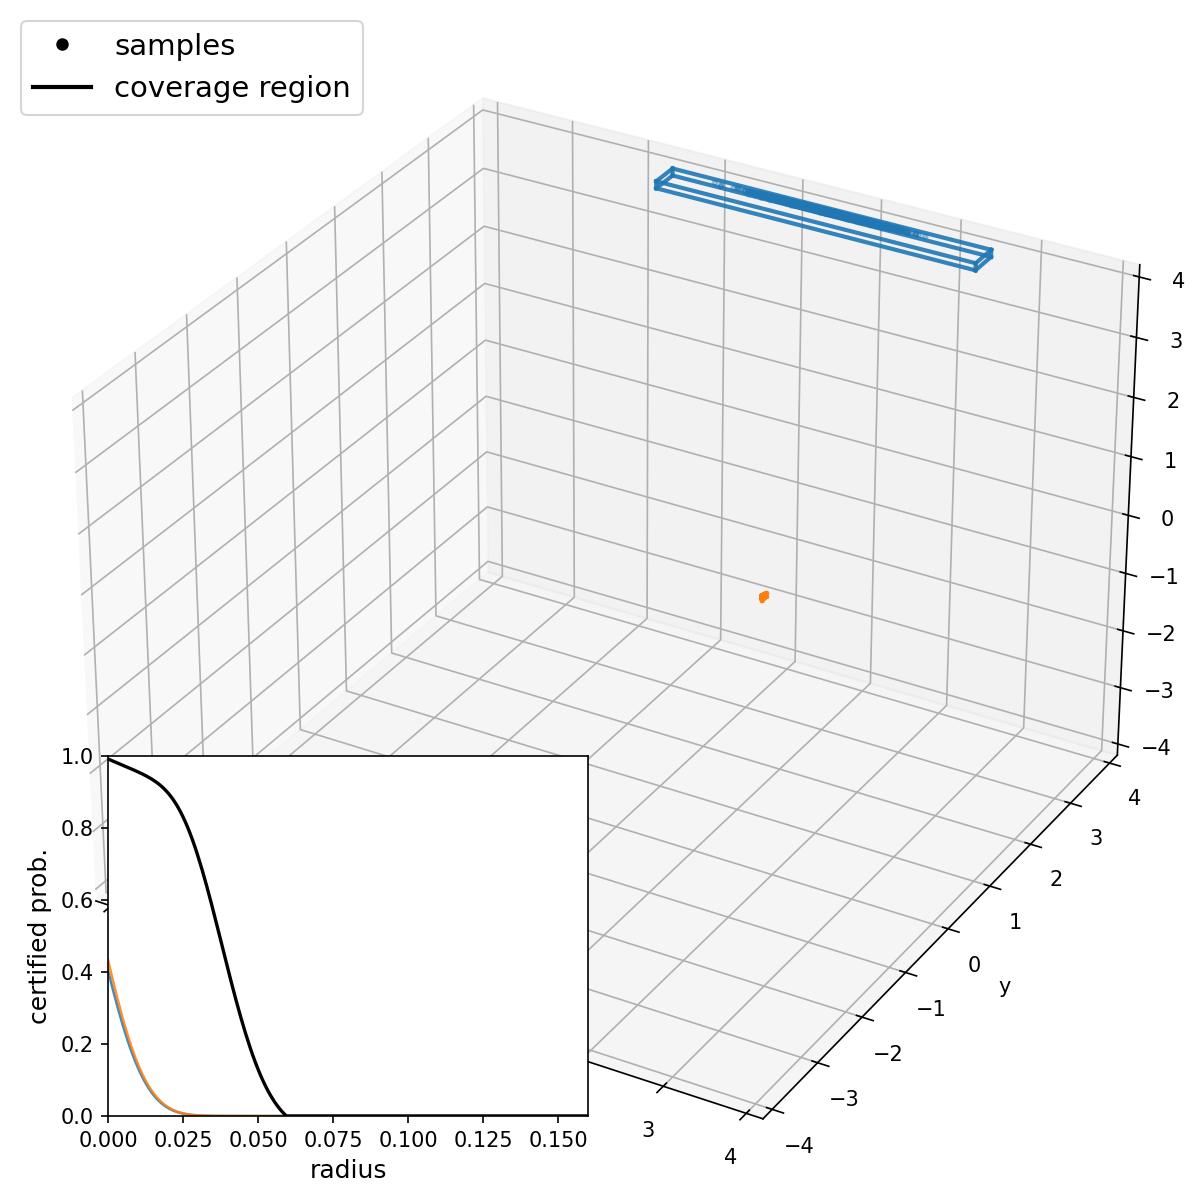
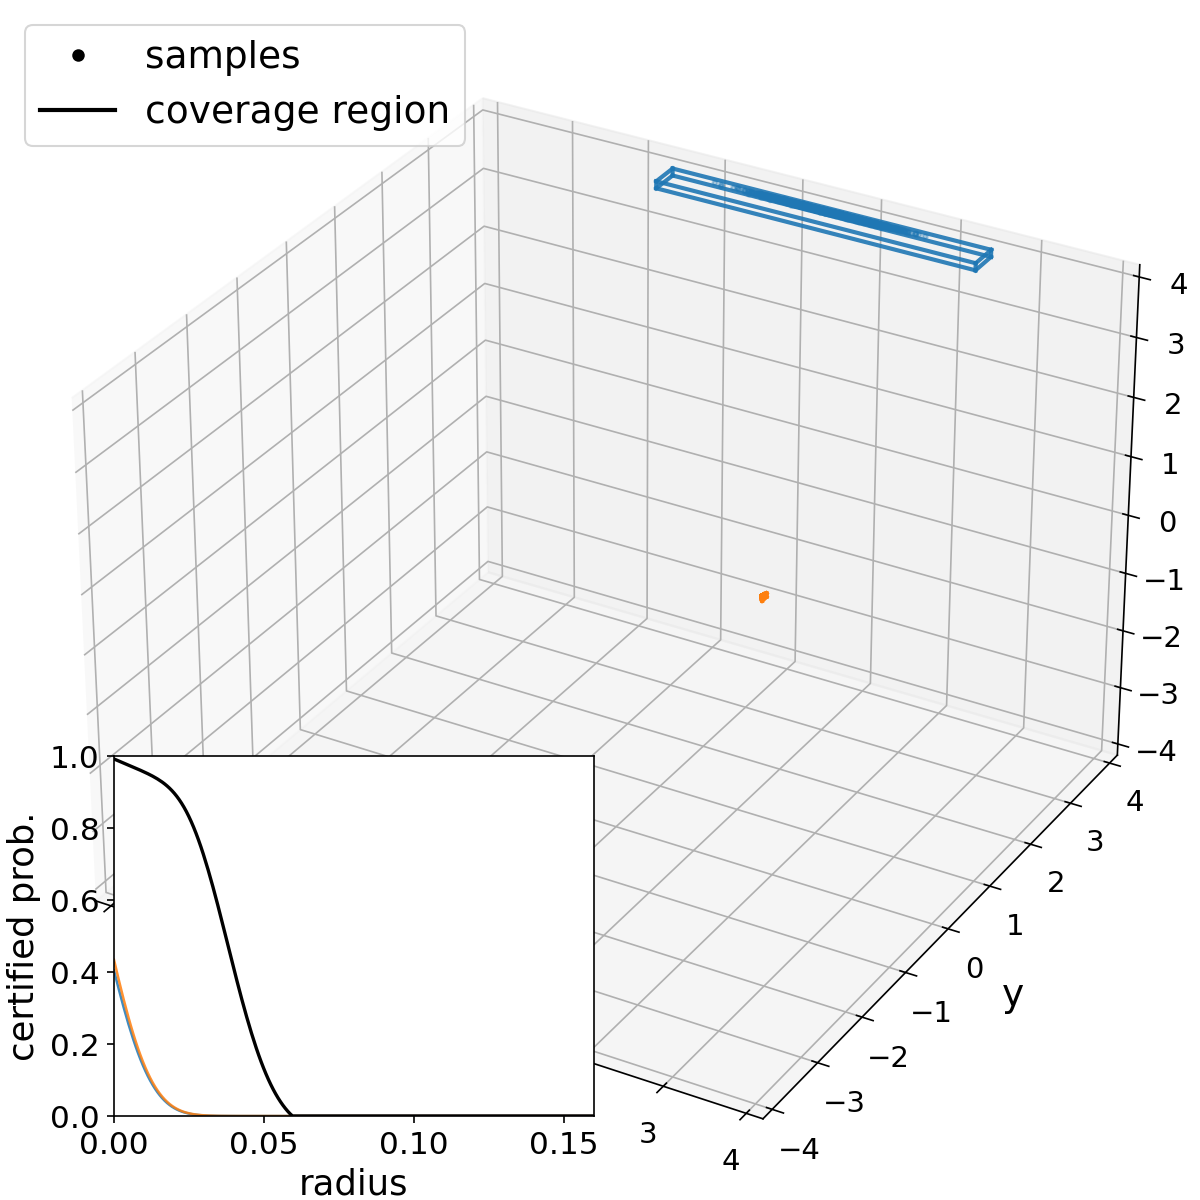
Update visualize_bimodal_robustified.py

diff --git a/experiments/rl_benchmarks/visualize_bimodal_robustified.py b/experiments/rl_benchmarks/visualize_bimodal_robustified.py
@@ -73,9 +73,11 @@ def _new_3d_fig():
     ax.set_xlim(-AXIS_LIM, AXIS_LIM)
     ax.set_ylim(-AXIS_LIM, AXIS_LIM)
     ax.set_zlim(-AXIS_LIM, AXIS_LIM)
-    ax.set_xlabel("x")
-    ax.set_ylabel("y")
-    ax.set_zlabel("z")
+    ax.set_xlabel("x", fontsize=18, labelpad=8)
+    ax.set_ylabel("y", fontsize=18, labelpad=8)
+    ax.set_zlabel("z", fontsize=18, labelpad=8)
+    ax.tick_params(axis="both", which="major", labelsize=14)
+    ax.tick_params(axis="z", which="major", labelsize=14)
     return fig, ax
 
 
@@ -87,7 +89,7 @@ def _plot_raw(actions: np.ndarray, out_path: Path, base_state: np.ndarray) -> No
         Line2D([0], [0], marker="o", color="none", markerfacecolor="black",
                markeredgecolor="black", markersize=5, label="samples"),
     ]
-    ax.legend(handles=legend_handles, loc="upper left", fontsize=14)
+    ax.legend(handles=legend_handles, loc="upper left", fontsize=18)
     fig.savefig(out_path, dpi=150)
     plt.close(fig)
 
@@ -142,19 +144,19 @@ def _plot_smoothed(
                markeredgecolor="black", markersize=5, label="samples"),
         Line2D([0], [0], color="black", linewidth=2.0, label="coverage region"),
     ]
-    ax.legend(handles=legend_handles, loc="upper left", fontsize=14)
+    ax.legend(handles=legend_handles, loc="upper left", fontsize=18)
 
     totals, per_cluster = _certificate_curve(smoother, radii)
-    inset = fig.add_axes([0.09, 0.07, 0.40, 0.3])
+    inset = fig.add_axes([0.095, 0.07, 0.40, 0.3])
     for j in range(k_used):
         inset.plot(radii, per_cluster[:, j], color=cluster_colors[j],
                    linewidth=1.2, alpha=0.85)
     inset.plot(radii, totals, color="black", linewidth=1.6, label="total")
     inset.set_xlim(float(radii[0]), float(radii[-1]))
     inset.set_ylim(0.0, 1.0)
-    inset.set_xlabel("radius", fontsize=12)
-    inset.set_ylabel("certified prob.", fontsize=12)
-    inset.tick_params(labelsize=10)
+    inset.set_xlabel("radius", fontsize=17)
+    inset.set_ylabel("certified prob.", fontsize=17)
+    inset.tick_params(labelsize=15)
 
     fig.savefig(out_path, dpi=150)
     plt.close(fig)
